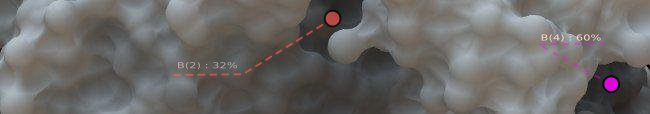
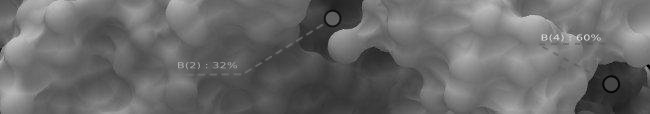
Update

diff --git a/_layouts/default.html b/_layouts/default.html
@@ -8,6 +8,30 @@
     <link rel="stylesheet" href="/stylesheets/pygment_trac.css">
     <script src="https://ajax.googleapis.com/ajax/libs/jquery/1.7.1/jquery.min.js"></script>
     <script src="/javascripts/respond.js"></script>
+    {% if page.imageover %}
+    <script type="text/javascript">
+    $( document ).ready( function() {
+                           // Change the image of hoverable images
+                           $(".imghover").hover( function() {
+                             var hoverImg = HoverImgOf($(this).attr("src"));
+                             $(this).attr("src", hoverImg);
+                           }, 
+                           function() {
+                             var normalImg = NormalImgOf($(this).attr("src"));
+                             $(this).attr("src", normalImg);
+                           } );
+                          } );
+
+    function HoverImgOf(filename) {
+      var re = new RegExp("(.+)\\.(gif|png|jpg)", "g");
+      return filename.replace(re, "$1_hover.$2");
+    }
+    function NormalImgOf(filename) {
+      var re = new RegExp("(.+)_hover\\.(gif|png|jpg)", "g");
+      return filename.replace(re, "$1.$2");
+    }
+    </script>
+    {% endif %}  
     {% if page.latex %}
     <script type="text/x-mathjax-config">
       MathJax.Hub.Config({tex2jax: {inlineMath: [['$','$'], ['\\(','\\)']]}});

diff --git a/site/portfolio/index.md b/site/portfolio/index.md
@@ -1,6 +1,7 @@
 ---
 layout: default
 lightbox: true
+imageover: true
 ---
 
 Just some stuff I worked on.
@@ -13,10 +14,16 @@ are not yet publicly available because:
 * I am waiting to find the time to publish a paper/article  _OR_
 * I need to make sure I can legally opensource the project under the proper license. 
 
+Hover on the banners to add colors.
+
+Since I do have tons of presentations, whitepapers, images and movies related to 
+these projects, in the future it will be possible to access additional resources
+from this page. For the time being please do contact me directly in case you are
+interested in any of these projects.
 
 #Molekel
 
-![](pics/molekel/bannerbw.jpg)
+<img src="pics/molekel/banner.jpg" class="imghover"/>
 
 Multiplatform molecular visualization/analysis program. Started as a proof
 of concept to test the suitability of different libraries, it ended up
@@ -45,7 +52,7 @@ publication somewhere(_arXiv_ is enough).
 
 #Crystal Viewer
 
-![](pics/crystal_viewer/bannerbw.jpg)
+<img src="pics/crystal_viewer/banner.jpg" class="imghover"/>
 
 Real-time visualizaiton of large (multi-million atoms) chemical compounds.
 Features:
@@ -59,7 +66,7 @@ _EMPA_(Swiss material science lab).
 
 #Interactive visualization for quantum chemistry
 
-![](pics/funorbitals/bannerbw.jpg)
+<img src="pics/funorbitals/banner.jpg" class="imghover"/>
 
 Research on techniques for analyzing molecules, scalar and vector fields from direct
 real-time evaluation of approximate solutions to the Schroedinger equation.
@@ -68,7 +75,7 @@ Paper, article and posters published.
 
 #Kernel for interactive molecular modeling and analysis
 
-![](pics/gkernel/bannerbw.jpg)
+<img src="pics/gkernel/banner.jpg" class="imghover"/>
 
 Some features:
 
@@ -102,7 +109,7 @@ of the prototypes are or will be opensourced.
 
 #(Inverse) global illumination
 
-![](pics/rglobal_illum/bannerbw.jpg)
+<img src="pics/rglobal_illum/banner.jpg" class="imghover"/>
 
 Research on how to infer features of 3d shapes from global illumination-related properties.
 
@@ -110,7 +117,7 @@ Cannot disclose more at this time.
 
 #Real-time raytracing of quadrics
 
-![](pics/quadrics/bannerbw.jpg)
+<img src="pics/quadrics/banner.jpg" class="imghover"/>
 
 Implementation of a real-time ray-tracing engine using points and quadrangles
 as proxy geometry for quadric primitives. 
@@ -122,7 +129,7 @@ OpenSceneGraph code available on GitHub, temporarily hosted in a private project
 
 #Parsley
 
-![](pics/parsley/bannerbw.jpg)
+<img src="pics/parsley/banner.jpg" class="imghover"/>
 
 Parsing framework originally developed to exctract and interpret data from results
 of quantum chemistry/physics computations.
@@ -131,7 +138,7 @@ of quantum chemistry/physics computations.
 
 #LoCO.js
 
-![](pics/loco/bannerbw.jpg)
+<img src="pics/loco/banner.jpg" class="imghover"/>
 
 Multiplatform JavaScript/C++ application framework: Develop multiplatform desktop applications
 with CoffeeScript/JavaScript/Python/Scheme...anything that compiles to
@@ -150,7 +157,7 @@ Full integration with WebKit: expose any object to WebKit context.
 
 #QLua
 
-![](pics/qlua/bannerbw.jpg)
+<img src="pics/qlua/banner.jpg" class="imghover"/>
 
 Make any QObject-derived class instance available to Lua; connect:
 
@@ -173,16 +180,24 @@ source code repository inside the <code>src/utility/events</code> directory.
 
 #F-Rep modeling
 
-![](pics/frep/bannerbw.jpg)
+<img src="pics/frep/banner.jpg" class="imghover"/>
 
-Attemps at building a 3D modeling application using only functional
-representations and volumetric datasets.
+Attempts at building a 3D modeling application using only functional
+representations and volumetric datasets with multi-dimensional transfer functions.
 This is research I started on my own many years ago; with the latest developments in
 hardware architectures it seems to finally be something possible to accomplish.
 
+#AOWhiz
+
+<img src="pics/aowhiz/banner.jpg" class="imghover"/>
+
+GUI application to generate ambient occlusion information from 3D meshes;
+two versions developed: one based on _wxWidgets_, the other, together with another
+developer, on _Qt_ to also perform a comparison of the two toolkits.
+
 #Free Dimensions
 
-![](pics/fd/bannerbw.jpg)
+<img src="pics/fd/banner.jpg" class="imghover"/>
 
 This is a program from the previous century. It started as  a proof of concept for a distributed CAD/3D modeler where 3D objects had assigned permissions similar to files in file systems
 and any instance of the program could work as client and/or server.
@@ -194,7 +209,7 @@ It turns out that the program (together with BMRT 2.6) does work on Windows 7 (a
 
 #sMesh
 
-![](pics/smesh/bannerbw.jpg)
+<img src="pics/smesh/banner.jpg" class="imghover"/>
 
 Another set of tools developed in the nineties, while still in college.
 
